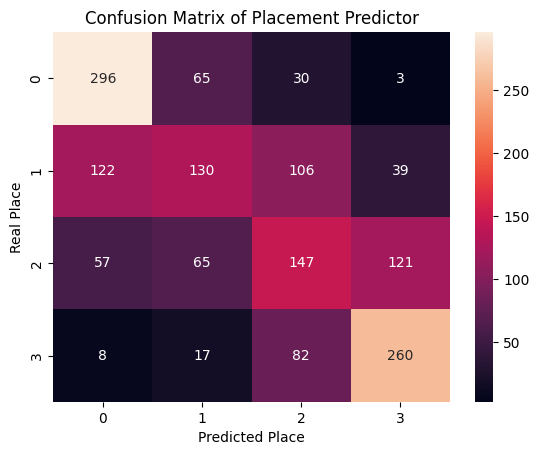
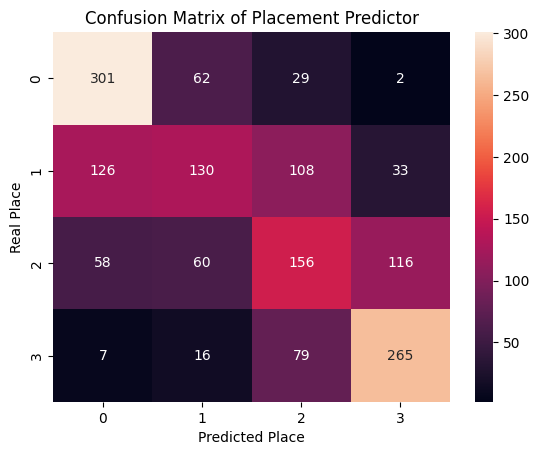
regex filtered columns

diff --git a/ph_tft_ml.py b/ph_tft_ml.py
@@ -1,17 +1,38 @@
-import pandas as pd
-import numpy as np
-import seaborn as sns
+import re
+
 import matplotlib.pyplot as plt
-from sklearn.model_selection import train_test_split
-from sklearn.metrics import mean_absolute_error
-from sklearn.metrics import confusion_matrix
-from sklearn.metrics import accuracy_score
-from sklearn.model_selection import train_test_split
+import numpy as np
+import pandas as pd
+import seaborn as sns
 from sklearn.ensemble import RandomForestClassifier
-from sklearn.metrics import mean_absolute_error
+from sklearn.metrics import (accuracy_score, confusion_matrix,
+                             mean_absolute_error)
+from sklearn.model_selection import GridSearchCV, train_test_split
 
 pd.options.display.max_columns = 200
 pd.options.display.max_rows = 200
+
+def scoring(rf_grid, X_train, y_train, X_valid, y_valid):
+    print(f'Train Accuracy - : {rf_grid.score(X_train, y_train):.3f}')
+    print(f'Test Accuracy - : {rf_grid.score(X_valid, y_valid):.3f}')
+
+    y_pred = rf_grid.best_estimator_.predict(X_valid)
+
+    # mean absolute error
+
+    mae = mean_absolute_error(y_valid, y_pred)
+
+    # confusion matrix
+    conf_mat = confusion_matrix(y_valid, y_pred)
+    sns.heatmap(conf_mat, annot = True, fmt = 'g')
+    plt.title('Confusion Matrix of Placement Predictor')
+    plt.ylabel('Real Place')
+    plt.xlabel('Predicted Place')
+    plt.show()
+
+    # accuracy score
+    print("Accuracy of model:", accuracy_score(y_valid, y_pred))
+    print("Mean Average Error: ", mae)
 
 # read and concat data
 X_chall = pd.read_csv('processed_challenger_match_data.csv')
@@ -21,151 +42,24 @@ X_full = pd.concat([X_chall, X_gm], axis = 'index')
 # remove duplicates
 X_full = X_full.drop_duplicates().copy()
 
-# Select subset of predictors
-cols_to_use = \
-['augments_0',
- 'augments_1',
- 'augments_2',
-#  'last_round',
- 'level',
- 'placement', # <--- this is the target
-#  'puuid',
-#  'time_eliminated',
-#  'total_damage_to_players',
- 'traits_0_name',
- 'traits_0_num_units',
-#  'traits_0_style',
-#  'traits_0_tier_current',
-#  'traits_0_tier_total',
- 'traits_1_name',
- 'traits_1_num_units',
-#  'traits_1_style',
-#  'traits_1_tier_current',
-#  'traits_1_tier_total',
- 'traits_2_name',
- 'traits_2_num_units',
-#  'traits_2_style',
-#  'traits_2_tier_current',
-#  'traits_2_tier_total',
- 'traits_3_name',
- 'traits_3_num_units',
-#  'traits_3_style',
-#  'traits_3_tier_current',
-#  'traits_3_tier_total',
- 'traits_4_name',
- 'traits_4_num_units',
-#  'traits_4_style',
-#  'traits_4_tier_current',
-#  'traits_4_tier_total',
- 'traits_5_name',
- 'traits_5_num_units',
-#  'traits_5_style',
-#  'traits_5_tier_current',
-#  'traits_5_tier_total',
- 'traits_6_name',
- 'traits_6_num_units',
-#  'traits_6_style',
-#  'traits_6_tier_current',
-#  'traits_6_tier_total',
- 'traits_7_name',
- 'traits_7_num_units',
-#  'traits_7_style',
-#  'traits_7_tier_current',
-#  'traits_7_tier_total',
- 'traits_8_name',
- 'traits_8_num_units',
-#  'traits_8_style',
-#  'traits_8_tier_current',
-#  'traits_8_tier_total',
- 'traits_9_name',
- 'traits_9_num_units',
-#  'traits_9_style',
-#  'traits_9_tier_current',
-#  'traits_9_tier_total',
- 'traits_10_name',
- 'traits_10_num_units',
-#  'traits_10_style',
-#  'traits_10_tier_current',
-#  'traits_10_tier_total',
- 'units_0_character_id',
-#  'units_0_name',
- 'units_0_rarity',
- 'units_0_tier',
- 'units_1_character_id',
- 'units_1_itemNames_0',
-#  'units_1_name',
- 'units_1_rarity',
- 'units_1_tier',
- 'units_2_character_id',
-#  'units_2_name',
- 'units_2_rarity',
- 'units_2_tier',
- 'units_3_character_id',
-#  'units_3_name',
- 'units_3_rarity',
- 'units_3_tier',
- 'units_4_character_id',
- 'units_4_itemNames_0',
- 'units_4_itemNames_1',
-#  'units_4_name',
- 'units_4_rarity',
- 'units_4_tier',
- 'units_5_character_id',
- 'units_5_itemNames_0',
- 'units_5_itemNames_1',
-#  'units_5_name',
- 'units_5_rarity',
- 'units_5_tier',
- 'units_6_character_id',
- 'units_6_itemNames_0',
- 'units_6_itemNames_1',
-#  'units_6_name',
- 'units_6_rarity',
- 'units_6_tier',
- 'units_7_character_id',
- 'units_7_itemNames_0',
- 'units_7_itemNames_1',
- 'units_7_itemNames_2',
-#  'units_7_name',
- 'units_7_rarity',
- 'units_7_tier',
- 'units_8_character_id',
-#  'units_8_name',
- 'units_8_rarity',
- 'units_8_tier',
- 'traits_11_name',
- 'traits_11_num_units',
-#  'traits_11_style',
-#  'traits_11_tier_current',
-#  'traits_11_tier_total',
- 'traits_12_name',
- 'traits_12_num_units',
-#  'traits_12_style',
-#  'traits_12_tier_current',
-#  'traits_12_tier_total',
- 'units_2_itemNames_0',
- 'units_2_itemNames_1',
- 'units_2_itemNames_2',
- 'units_5_itemNames_2',
- 'units_0_itemNames_0',
- 'units_3_itemNames_0',
- 'units_3_itemNames_1',
- 'units_3_itemNames_2',
- 'units_4_itemNames_2',
- 'units_6_itemNames_2',
- 'units_0_itemNames_1',
- 'units_0_itemNames_2',
- 'units_1_itemNames_1',
- 'units_1_itemNames_2',
- 'units_8_itemNames_0',
- 'traits_13_name',
- 'traits_13_num_units',
-#  'traits_13_style',
-#  'traits_13_tier_current',
-#  'traits_13_tier_total',
- 'units_8_itemNames_1']
+### Select subset of features
 
-X = X_full[cols_to_use]
+# filter columns
+features = ['level', 'placement']
+
+augs = re.compile("augments.")
+trait_names = re.compile("traits_._name")
+trait_nums = re.compile("traits_._num")
+units_id = re.compile("units_._character")
+units_rarity = re.compile("units_._rarity")
+units_tier = re.compile("units_._tier")
+itemnames = re.compile("units_._itemNames")
+needed_columns = [augs, trait_names, trait_nums, units_id, units_rarity, units_tier, itemnames]
+
+for filters in needed_columns:
+    features += list(filter(filters.match, X_full.columns))
+
+X = X_full[features]
 
 # convert dtypes of discrete columns
 for colname in list(X.select_dtypes("float64")):
@@ -189,33 +83,32 @@ y = X.placement
 X = X.drop('placement', axis = 'columns')
 
 # create classifications with 8 bins, 4 bins and 2 bins
+X8 = X4 = X2 = X
 y8 = y # 8 possible classifications
 y4 = y.replace({1:1, 2:1, 3:2, 4:2, 5:3, 6:3, 7:4, 8:4}) # 4 possible classifications
 y2 = y.replace({1:1, 2:1, 3:1, 4:1, 5:2, 6:2, 7:2, 8:2}) # 2 possible classifications
 
-###
+# create training and validation sets for y = 8 classes
+X8_train, X8_valid, y8_train, y8_valid = train_test_split(X8, y8, test_size = 0.20, random_state = 0)
+X4_train, X4_valid, y4_train, y4_valid = train_test_split(X4, y4, test_size = 0.20, random_state = 0)
+X2_train, X2_valid, y2_train, y2_valid = train_test_split(X2, y2, test_size = 0.20, random_state = 0)
 
-# Create training and validation sets for y = 8 classes
-X8_train, X8_valid, y8_train, y8_valid = train_test_split(X, y8, test_size = 0.20, random_state = 0)
-X4_train, X4_valid, y4_train, y4_valid = train_test_split(X, y4, test_size = 0.20, random_state = 0)
-X2_train, X2_valid, y2_train, y2_valid = train_test_split(X, y2, test_size = 0.20, random_state = 0)
+### build Random Forest Model with hyperparameters
 
-# Build Random Forest Model with hyperparameters
-
-# Number of trees in random forest
+# number of trees in random forest
 n_estimators = [10, 100, 200]
-# Number of features to consider at every split
+# number of features to consider at every split
 max_features = ['auto', 'sqrt']
-# Maximum number of levels in tree
+# maximum number of levels in tree
 max_depth = [None]
-# Minimum number of samples required to split a node
+# minimum number of samples required to split a node
 min_samples_split = [2,4]
-# Minimum number of samples required at each leaf node
+# minimum number of samples required at each leaf node
 min_samples_leaf = [1,2]
-# Method of selecting samples for training each tree
+# method of selecting samples for training each tree
 bootstrap = [True, False]
 
-# Create the random grid
+# create the random grid
 param_grid = {
     'n_estimators' : n_estimators,
     'max_features' : max_features,
@@ -225,40 +118,23 @@ param_grid = {
     'bootstrap' : bootstrap
 }
 
+# using RandomForestClassifier since placements are discrete values
 forest_model = RandomForestClassifier()
 
-from sklearn.model_selection import GridSearchCV
+# perform grid search for best parameters from param_grid above
 rf_grid = GridSearchCV(estimator = forest_model, param_grid = param_grid, cv = 3, verbose = 2, n_jobs = 4)
 
+# 8 classifications
 rf_grid8 = rf_grid.fit(X8_train, y8_train)
-rf_grid4 = rf_grid.fit(X4_train, y4_train)
-rf_grid2 = rf_grid.fit(X2_train, y2_train)
-
 rf_grid8.best_params_
+scoring(rf_grid8, X8_train, y8_train, X8_valid, y8_valid) # Accuracy: 0.306
+
+# 4 classifications
+rf_grid4 = rf_grid.fit(X4_train, y4_train)
 rf_grid4.best_params_
+scoring(rf_grid4, X4_train, y4_train, X4_valid, y4_valid) # Accuracy: 0.550
+
+# 2 classifications
+rf_grid2 = rf_grid.fit(X2_train, y2_train)
 rf_grid2.best_params_
-
-def scoring(rf_grid, X_train, y_train, X_valid, y_valid):
-    print(f'Train Accuracy - : {rf_grid.score(X_train, y_train):.3f}')
-    print(f'Test Accuracy - : {rf_grid.score(X_valid, y_valid):.3f}')
-
-    y_pred = rf_grid.best_estimator_.predict(X_valid)
-
-    # mean absolute error
-
-    mae = mean_absolute_error(y_valid, y_pred)
-
-    # confusion matrix
-    conf_mat = confusion_matrix(y_valid, y_pred)
-    sns.heatmap(conf_mat, annot = True, fmt = 'g')
-    plt.title('Confusion Matrix of Placement Predictor')
-    plt.ylabel('Real Place')
-    plt.xlabel('Predicted Place')
-    plt.show()
-
-    # accuracy score
-    print("Accuracy of model:", accuracy_score(y_valid, y_pred))
-
-scoring(rf_grid, X8_train, y8_train, X8_valid, y8_valid)
-scoring(rf_grid, X4_train, y4_train, X4_valid, y4_valid)
-scoring(rf_grid, X2_train, y2_train, X2_valid, y2_valid)
+scoring(rf_grid2, X2_train, y2_train, X2_valid, y2_valid) # Accuracy: 0.804
